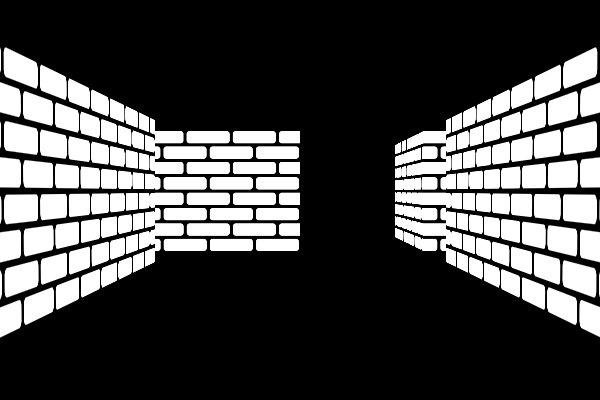
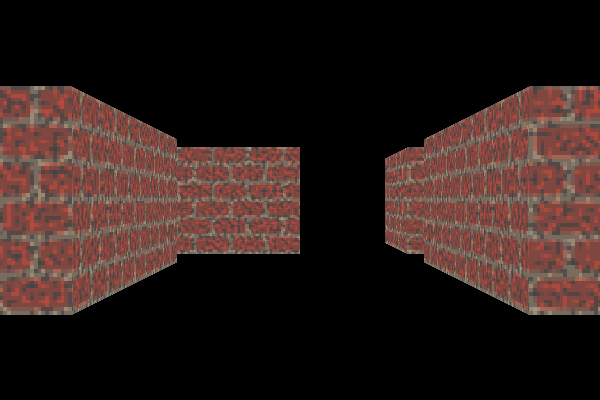
More examples, some fixes.

diff --git a/rpu/src/rpu/compiler/context.rs b/rpu/src/rpu/compiler/context.rs
@@ -18,6 +18,8 @@ pub struct Context {
     pub camera                  : Box<dyn Camera3D>,
 
     pub size                    : [usize; 2],
+
+    pub out_texture             : Option<usize>,
 }
 
 impl Context {
@@ -37,6 +39,8 @@ impl Context {
             camera              : Box::new(Pinhole::new()),
 
             size                : [0, 0],
+
+            out_texture         : None,
         }
     }
 
@@ -94,12 +98,20 @@ impl Context {
 
                     let ray = self.camera.gen_ray(coord);
                     let mut hit = false;
+
+                    if let Some(texture) = self.out_texture {
+                        let index = self.textures[texture];
+                        if let Some(c) = self.get_color(&ray,&[x as usize, y as usize], &color.size, &self.nodes[index].object, index) {
+                            pixel.copy_from_slice(&c);
+                        }
+                        hit = true;
+                    } else
                     if let Some(layout) = self.layouts.last() {
-                        if let Some(c) = self.get_color(&ray,&[x as usize, y as usize], &color.size, &layout) {
+                        if let Some(c) = self.get_color(&ray,&[x as usize, y as usize], &color.size, &layout, 0) {
                             pixel.copy_from_slice(&c);
                             hit = true;
                         }
-                    } else {
+                    } /*else {
                         for i in 0..self.textures.len() {
                             if let Some(c) = self.get_color(&ray,&[x as usize, y as usize], &color.size, &self.nodes[i].object) {
                                 pixel.copy_from_slice(&c);
@@ -107,7 +119,8 @@ impl Context {
                                 break;
                             }
                         }
-                    }
+                    }*/
+
                     if hit == false {
                         let c = [0.0, 0.0, 0.0, 1.0];
                         pixel.copy_from_slice(&c);
@@ -140,7 +153,7 @@ impl Context {
     }*/
 
     #[inline(always)]
-    fn get_color(&self, ray: &[Vector3<F>; 2], p: &[usize; 2], size: &[usize;2], object: &Object) -> Option<Color> {
+    fn get_color(&self, ray: &[Vector3<F>; 2], p: &[usize; 2], size: &[usize;2], object: &Object, index: usize) -> Option<Color> {
         let mut c = [0.0, 0.0, 0.0, 1.0];
 
         match object {
@@ -204,10 +217,10 @@ impl Context {
                 let [x, y]= p;
 
                 let xx = (*x as F / *width as F) - 0.5;
-                let yy = (*y as F / *height as F) - 0.5;
+                let yy = 0.5 - ((*y as F / *height as F));
 
-                let mut uv = UV::new(GF2::new(xx, -yy), GF4::new(0.0, 0.0, *width as F, *height as F), GF2::new(xx, -yy));
-                let v = element.get_color_at(&mut uv, 0, &self);
+                let mut uv = UV::new(GF2::new(xx, yy), GF4::new(0.0, 0.0, *width as F, *height as F), GF2::new(xx, yy));
+                let v = element.get_color_at(&mut uv, index, &self);
                 c[0] = v[0];
                 c[1] = v[1];
                 c[2] = v[2];

diff --git a/rpu/src/rpu/compiler/mod.rs b/rpu/src/rpu/compiler/mod.rs
@@ -3,6 +3,8 @@ pub mod context;
 pub mod node;
 pub mod object;
 
+use colors_transform::Color;
+
 use crate::prelude::*;
 
 use self::scanner::TokenType;
@@ -389,9 +391,11 @@ impl Compiler {
         let mut object : Option<Object> = None;
 
         let mut is_layout = false;
+        let mut is_texture = false;
 
         if self.parser.current.lexeme == "Texture" {
             is_layout = true;
+            is_texture = true;
             object = Some(Object::Element2D(Box::new(Texture::new())));
         } else
         if self.parser.current.lexeme == "Vertical" {
@@ -422,6 +426,12 @@ impl Compiler {
         // }
 
         self.advance();
+
+        // * on a texture means we should output it
+        if is_texture && self.check(TokenType::Star) {
+            ctx.out_texture = Some(ctx.textures.len());
+            self.advance();
+        }
 
         let props = self.parse_object_properties(&mut node);
 
@@ -523,8 +533,22 @@ impl Compiler {
             self.consume(TokenType::Identifier, "Expected identifier.");
 
             if self.check(TokenType::Equal) {
-                let value = self.scanner.scanline(1);
+                let mut value = self.scanner.scanline(1);
                 println!("assignment to {:?}, line {}: {} = {}", node.id, self.parser.current.line, property, value);
+                if value.starts_with('#') {
+                    //println!("Color {}", value);
+                    let mut chars = value.chars();
+                    chars.next();
+                    let color = chars.as_str();
+
+                    use colors_transform::{Rgb};
+
+                    if let Some(rgb) = Rgb::from_hex_str(color).ok() {
+                        println!("{:?}", rgb);
+                        value = format!("F4({:.3}, {:.3}, {:.3}, 1.0)", rgb.get_red() as F / 255.0, rgb.get_green() as F / 255.0, rgb.get_blue() as F / 255.0 );
+                        println!("{}", value);
+                    }
+                }
                 props.push(Property::Property(property, value));
                 self.advance();
                 if self.indent() == 0 {

diff --git a/rpu/src/rpu/element2d/bricks.rs b/rpu/src/rpu/element2d/bricks.rs
@@ -20,19 +20,24 @@ impl Element2D for Bricks<'_> {
         "Bricks".to_string()
     }
 
-    fn compute_color_at(&self, uv : &UV, color: &mut GF4, _node: usize, _ctx: &Context) {
+    fn compute_color_at(&self, uv : &UV, color: &mut GF4, _node: usize, ctx: &Context) {
 
         let cell = 1.0;
-        let ratio = 3.0;
+        let ratio = 2.0;
         let brick = 1.0;
+        let gap_x = 0.08;
 
-        let mut u = uv.world * 8.0;
+        let mut uv_local = uv.world;
+        let rr = ctx.size[0] as F / ctx.size[1] as F;
+        uv_local.x *= rr;
+        uv_local.y *= rr;
+
+        let mut u = uv_local * 4.0 + GF2::new(10000.0, 10000.0);
 
         let bevelx = 0.07;
         let bevel = GF2::new(bevelx, bevelx);
-        let gap_x = 0.08;
         let gap = GF2::new(gap_x, gap_x);
-        let round = 0.2;
+        let round = 0.25;
         //let missing = 0.0;
 
         let w = GF2::new(ratio,1.0);

diff --git a/rpu/src/rpu/element2d/noise.rs b/rpu/src/rpu/element2d/noise.rs
@@ -22,11 +22,16 @@ impl Element2D for Noise<'_> {
         "Noise".to_string()
     }
 
-    fn compute_color_at(&self, uv : &UV, color: &mut GF4, _node: usize, _ctx: &Context) {
+    fn compute_color_at(&self, uv : &UV, color: &mut GF4, _node: usize, ctx: &Context) {
         use noise::{NoiseFn, Perlin};
 
+        let mut uv_local = uv.world + GF2::new(10000.0, 10000.0);
+        let rr = ctx.size[0] as F / ctx.size[1] as F;
+        uv_local.x *= rr;
+        uv_local.y *= rr;
+
         let value = Perlin::new();
-        let v = value.get([uv.world.x * 20.0 / self.scale.x, uv.world.y * 20.0 / self.scale.y]);
+        let v = value.get([uv_local.x * 20.0 / self.scale.x, uv_local.y * 20.0 / self.scale.y]);
 
         //println!("{}", v);
         *color = glm::mix(&color, &self.color, (self.color.w * (v / 2.0 + 0.5)).clamp(0.0, 1.0));

diff --git a/Readme.md b/Readme.md
@@ -30,20 +30,79 @@ RPU is meant as a tool for programmers and is not artist friendly by design. It 
 
 ## Examples
 
-Simple Dungeon
+# Texture Creation
+
+Let's start with a solid dark beige color.
+
+```rust
+Texture*       // The * star outputs this texture.
+    Color
+        color = #a9957b
+```
+![Dungeon](images/bricks0.png)
+
+The texture has a solid color layer of a dark beige color.
+
+In the next step we add a noise layer and pixelate the texture 60%.
+
+```rust
+Texture*
+    pixelate = 60.0
+    Color
+        color = #a9957b
+    Noise
+        color = #444444
+        scale = F2(1.0, 1.0)
+```
+
+![Dungeon](images/bricks1.png)
+
+The noise color is blended on the background. By default the noise layer uses *Perlin* noise.
+
+Now lets add some bricks:
+
+```rust
+Texture*
+    pixelate = 60.0
+    Color
+        color = #a9957b
+    Bricks
+        color = #bc4a3c
+    Noise
+        color = #444444
+        scale = F2(1.0, 1.0)
+```
+
+![Dungeon](images/bricks2.png)
+
+This creates a tileable brick layer on top of the color layer. The noise is applied as the last step.
+
+Layers, like the brick and noise layers in this example, have many different options which are explained in detail in the upcoming RPU book.
+
+Also textures can contain material attributes and can output material and normal maps, to be documented soon.
+
+# Simple Dungeon
+
+Let's take the simple texture we created and apply it to a basic dungeon scene. For this we add a camera a voxel, and a 3D grid.
 
 ```rust
 Pinhole
-    origin = F3(3.0, 0.5, 8.5)
-    center = F3(3.0, 0.4, 0.0)
+    origin = F3(3.0, 0.5, 9.5)
+    center = F3(3.0, 0.5, 0.0)
 
 Texture
     name = "Bricks"
+    pixelate = 60.0
+    Color
+        color = #a9957b
     Bricks
+        color = #BC4A3C
+    Noise
+        color = #444444
+        scale = F2(1.0, 1.0)
 
 Voxel'a
     texture = "Bricks"
-    rotation = F3(0.0, 0.0, 0.0)
 
 Grid3D
 :    a
@@ -54,5 +113,51 @@ Grid3D
 : a  a
 ```
 
+Notice that we removed the * from the texture, now RPU renders the last layout in the source which in this case is a 3D grid. The grid has one level of tiles in the xz plane.
+
 ![Dungeon](images/dungeon.png)
+
+### Sprites
+
+In the last step, lets add an image based monster to the scene. We call them sprites.
+
+```rust
+Pinhole
+    origin = F3(3.0, 0.5001, 9.5)
+    center = F3(3.0, 0.5, 0.0)
+
+Texture
+    name = "Bricks"
+    pixelate = 60.0
+    Color
+        color = #a9957b
+    Bricks
+        color = #BC4A3C
+    Noise
+        color = #444444
+        scale = F2(1.0, 1.0)
+
+Texture
+    name = "Monster"
[1 lines of base64/hex data omitted]
+
+Voxel'a
+    texture = "Bricks"
+
+Sprite
+    texture = "Monster"
+    position = F3(2.0, 0.0, 5.0)
+
+Grid3D
+:    a
+:aaa a
+:
+: a  a
+: a  a
+: a  a
+```
+
+![Sprite](images/sprite.png)
+
+Scary isn't he ? We loaded the texture for the sprite from a JSON encoded PNG file placed the sprite at the given location into the scene.
 
